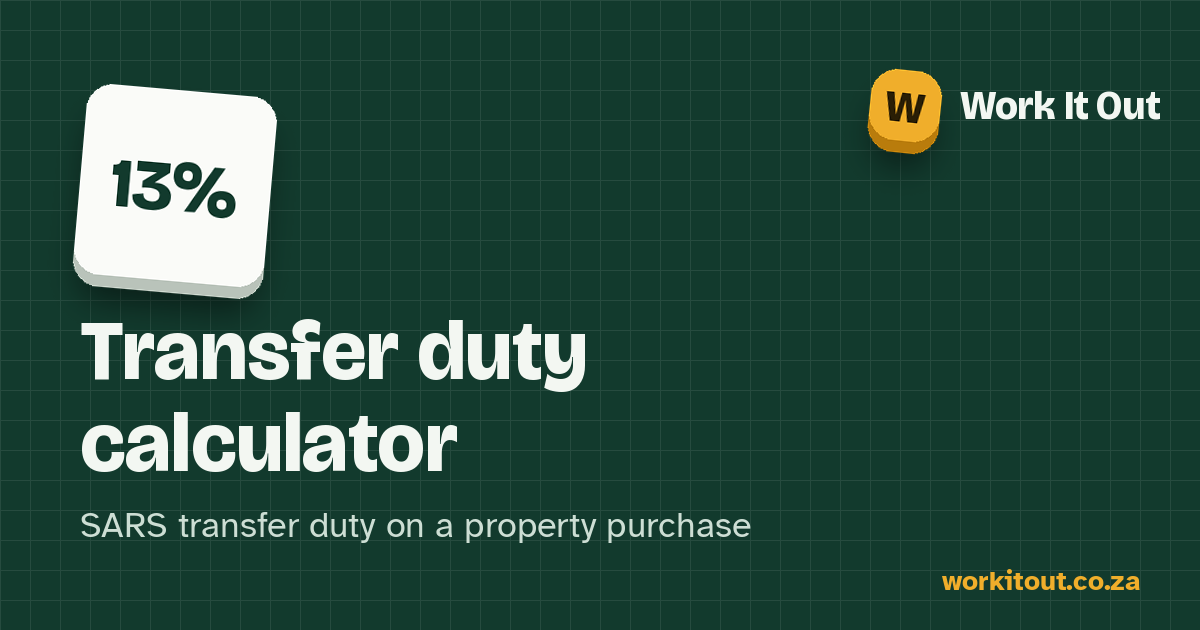
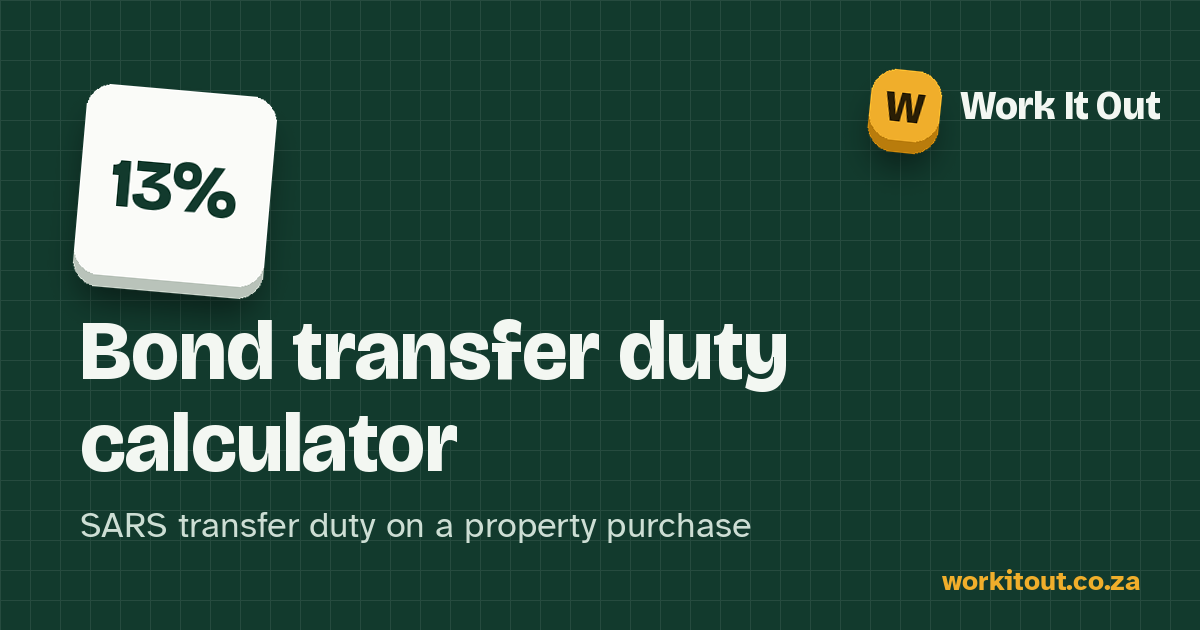
Remove APS calculator, rename to Bond Transfer Duty, add Compound Interest calculator
- New compound interest calculator with monthly top-ups, compounding frequency,
  yearly top-up raise, a year-by-year stacked bar chart and table
- /aps-calculator/ now redirects to the home page
- Share images regenerated

Claude-Session: https://claude.ai/code/session_014mjLHGrQ93ecfxfpPuppfF

Changed region(s): [[0.0617, 0.4825, 0.6783, 0.6333]]

diff --git a/src/components/Calculators.jsx b/src/components/Calculators.jsx
@@ -1,5 +1,5 @@
-import { salary, vat, aps, apsPoints, transferDuty, units, applianceCost, R, num, pct } from "../lib/calc.js";
-import { useRef } from "react";
+import { salary, vat, compound, transferDuty, units, applianceCost, R, num, pct } from "../lib/calc.js";
+import { useRef, useState } from "react";
 import { AnimatedNumber, useUrlState, ShareButton, Field, ResultPeek, MoneyInput, Chips, Checked } from "./shared.jsx";
 import { RATES } from "../lib/calc.js";
 
@@ -98,43 +98,124 @@ export function VatCalc() {
   );
 }
 
-export function ApsCalc() {
-  const [s, setS, set] = useUrlState({ m: ["", "", "", "", "", "", ""], lo: "" });
-  const r = aps(s.m, s.lo);
-  const setMark = (i) => (e) => setS((st) => { const m = [...st.m]; m[i] = e.target.value; return { ...st, m }; });
+export function CompoundCalc() {
+  const [s, setS, set] = useUrlState({ start: "10000", monthly: "1000", rate: "9", years: "20", freq: "12", esc: "0" });
+  const val = (key) => (v) => setS((st) => ({ ...st, [key]: v }));
+  const r = compound({ start: s.start, monthly: s.monthly, rate: s.rate, years: s.years, perYear: s.freq, escalate: s.esc });
   const res = useRef(null);
+  const share = r.balance > 0 ? r.interest / r.balance : 0;
   return (
-    <div className="tool">
-      <form className="card" onSubmit={(e) => e.preventDefault()}>
-        <p className="field-label">Your subject marks (%), excluding Life Orientation</p>
-        <div className="aps-grid">
-          {s.m.map((v, i) => (
-            <div className="aps-row" key={i}>
-              <input type="number" inputMode="numeric" min="0" max="100" placeholder={`Subject ${i + 1} mark %`}
-                aria-label={`Subject ${i + 1} percentage`} value={v} onChange={setMark(i)} />
-              <span className={"aps-pts" + (v !== "" ? " on" : "")}>{v === "" ? "" : `${apsPoints(v)} pts`}</span>
+    <>
+      <div className="tool">
+        <form className="card" onSubmit={(e) => e.preventDefault()}>
+          <Field id="c-start" label="Starting amount (R)">
+            <MoneyInput id="c-start" value={s.start} onValue={val("start")} />
+            <Chips values={[0, 10000, 50000, 100000]} current={s.start} onPick={val("start")} label={(v) => (v ? k(v) : "R0")} />
+          </Field>
+          <Field id="c-monthly" label="Monthly top-up (R)">
+            <MoneyInput id="c-monthly" value={s.monthly} onValue={val("monthly")} />
+            <Chips values={[500, 1000, 2500, 5000]} current={s.monthly} onPick={val("monthly")} label={k} />
+          </Field>
+          <Field id="c-rate" label="Interest or growth rate per year (%)" hint="Bank savings often pay 6–8%; long-term growth funds have averaged more, with ups and downs.">
+            <input id="c-rate" {...n} max="50" step="0.25" value={s.rate} onChange={set("rate")} />
+            <Chips values={[6, 8, 10, 12]} current={s.rate} onPick={val("rate")} label={(v) => v + "%"} />
+          </Field>
+          <Field id="c-years" label="How many years?">
+            <input id="c-years" type="number" inputMode="numeric" min="1" max="60" step="1" value={s.years} onChange={set("years")} />
+            <Chips values={[5, 10, 20, 30]} current={s.years} onPick={val("years")} label={(v) => v + " yrs"} />
+          </Field>
+          <div className="two">
+            <Field id="c-freq" label="Interest added">
+              <select id="c-freq" value={s.freq} onChange={set("freq")}>
+                <option value="12">Monthly</option><option value="4">Quarterly</option><option value="1">Yearly</option>
+              </select>
+            </Field>
+            <Field id="c-esc" label="Raise top-up each year (%)">
+              <input id="c-esc" {...n} max="30" step="1" value={s.esc} onChange={set("esc")} />
+            </Field>
+          </div>
+        </form>
+        <div className="result" aria-live="polite" ref={res}>
+          <div className="label">Value after {Math.round(+s.years || 0)} years</div>
+          <AnimatedNumber value={r.balance} format={R} />
+          <dl>
+            <dt>You paid in</dt><dd>{R(r.paid)}</dd>
+            <dt>Interest earned</dt><dd>{R(r.interest)}</dd>
+            <dt>Share that is interest</dt><dd>{pct(share)}</dd>
+          </dl>
+          <Checked>Interest is added {s.freq === "12" ? "monthly" : s.freq === "4" ? "quarterly" : "yearly"}; top-ups go in at the end of each month. Before tax and inflation.</Checked>
+          <ShareButton text={`Saving ${R(+s.monthly || 0)} a month at ${s.rate}% could grow to ${R(r.balance)} in ${s.years} years.`} />
+        </div>
+        <ResultPeek label="Final value" text={R(r.balance)} target={res} />
+      </div>
+      <GrowthChart rows={r.rows} />
+    </>
+  );
+}
+
+/** Rounds an axis maximum up to 1, 2 or 5 × a power of ten. */
+function niceMax(v) {
+  if (!(v > 0)) return { max: 1, step: 0.25 };
+  const raw = v / 4, p = Math.pow(10, Math.floor(Math.log10(raw)));
+  const step = [1, 2, 2.5, 5, 10].map((m) => m * p).find((x) => x >= raw);
+  return { max: Math.ceil(v / step) * step, step };
+}
+const short = (v) => (v >= 1e6 ? `R${+(v / 1e6).toFixed(1)}m` : v >= 1000 ? `R${Math.round(v / 1000)}k` : `R${Math.round(v)}`);
+
+/** Stacked bars, one per year: what you paid in vs interest earned. */
+function GrowthChart({ rows }) {
+  const [hover, setHover] = useState(null);
+  if (!rows.length) return null;
+  const last = rows[rows.length - 1];
+  const { max, step } = niceMax(last.balance);
+  const ticks = [];
+  for (let t = 0; t <= max + 1e-9; t += step) ticks.push(t);
+  const every = rows.length > 30 ? 10 : rows.length > 12 ? 5 : rows.length > 6 ? 2 : 1;
+  const h = hover == null ? null : rows[hover];
+  return (
+    <section className="card chart-card" aria-labelledby="growth-h">
+      <div className="chart-head">
+        <h2 id="growth-h">How it grows, year by year</h2>
+        <ul className="legend">
+          <li><i className="sw paid" />You paid in</li>
+          <li><i className="sw int" />Interest earned</li>
+        </ul>
+      </div>
+      <div className="chart" onMouseLeave={() => setHover(null)}>
+        <div className="grid" aria-hidden="true">
+          {ticks.slice().reverse().map((t) => <div key={t} style={{ bottom: `${(t / max) * 100}%` }}><span>{short(t)}</span></div>)}
+        </div>
+        <div className="bars" role="img" aria-label={`After ${last.year} years: ${R(last.balance)}, of which ${R(last.paid)} paid in and ${R(last.interest)} interest.`}>
+          {rows.map((row, i) => (
+            <div key={row.year} className={"col" + (hover === i ? " on" : "")} tabIndex={0}
+              onMouseEnter={() => setHover(i)} onFocus={() => setHover(i)} onBlur={() => setHover(null)}
+              aria-label={`Year ${row.year}: ${R(row.balance)}`}>
+              <div className="stack" style={{ height: `${(row.balance / max) * 100}%` }}>
+                <span className="seg int" style={{ flexGrow: Math.max(row.interest, 0) }} />
+                <span className="seg paid" style={{ flexGrow: row.paid }} />
+              </div>
+              <span className="x">{row.year % every === 0 || i === 0 ? row.year : ""}</span>
             </div>
           ))}
         </div>
-        <p className="hint">Enter up to 7 subjects. Your best 6 are counted.</p>
-        <Field id="a-lo" label="Life Orientation mark % (optional)">
-          <input id="a-lo" type="number" inputMode="numeric" min="0" max="100" value={s.lo} onChange={set("lo")} />
-        </Field>
-      </form>
-      <div className="result" aria-live="polite" ref={res}>
-        <div className="label">Your APS score</div>
-        <AnimatedNumber value={r.total} format={(x) => String(Math.round(x))} />
-        <div className="meter" aria-hidden="true"><span style={{ width: `${(r.total / 42) * 100}%` }} /></div>
-        <dl>
-          <dt>Subjects counted</dt><dd>{r.counted} of 6</dd>
-          <dt>APS including LO</dt><dd>{r.withLO === null ? "–" : r.withLO}</dd>
-          <dt>Maximum possible</dt><dd>42</dd>
-        </dl>
-        <Checked>Uses the NSC achievement levels (1–7), best six subjects</Checked>
-        <ShareButton text={`My APS score is ${r.total}.`} />
+        {h && (
+          <div className="tip" style={{ left: `${((hover + 0.5) / rows.length) * 100}%` }} role="status">
+            <strong>Year {h.year}</strong>
+            <span>{R(h.balance)}</span>
+            <span><i className="sw paid" />Paid in {R(h.paid)}</span>
+            <span><i className="sw int" />Interest {R(h.interest)}</span>
+          </div>
+        )}
       </div>
-      <ResultPeek label={"APS"} text={String(r.total)} target={res} />
-    </div>
+      <p className="axis-note">Years</p>
+      <details className="table-view">
+        <summary>Show the year-by-year table</summary>
+        <div className="table-scroll"><table>
+          <thead><tr><th>Year</th><th>Paid in</th><th>Interest</th><th>Value</th></tr></thead>
+          <tbody>{rows.map((row) => <tr key={row.year}><td>{row.year}</td><td>{R(row.paid)}</td><td>{R(row.interest)}</td><td>{R(row.balance)}</td></tr>)}</tbody>
+        </table></div>
+      </details>
+    </section>
   );
 }
 

diff --git a/src/styles/global.css b/src/styles/global.css
@@ -5,7 +5,7 @@
   --fynbos:#1d5a45;--fynbos-deep:#103326;--on-fynbos:#f3f7f2;
   --marigold:#f0ae2b;--marigold-deep:#b97c0c;--marigold-soft:#fbefd2;--on-marigold:#2a1e05;
   --panel:#123a2d;--on-panel:#f3f7f2;--panel-line:rgba(243,247,242,.16);
-  --grid:rgba(29,90,69,.075);--focus:#2563eb;
+  --grid:rgba(29,90,69,.075);--focus:#2563eb;--c-paid:#1f8457;--c-int:#c4840a;
   --display:"Bricolage Grotesque Variable","Bricolage Grotesque",ui-sans-serif,system-ui,-apple-system,"Segoe UI",sans-serif;
   --body:"Atkinson Hyperlegible",ui-sans-serif,system-ui,-apple-system,"Segoe UI",Roboto,Arial,sans-serif;
   --r-sm:8px;--r-md:14px;--r-lg:22px;
@@ -16,13 +16,13 @@
   --fynbos:#49b98a;--fynbos-deep:#1f6b4c;--on-fynbos:#06130d;
   --marigold:#f3bc4a;--marigold-deep:#9a6608;--marigold-soft:#2b2414;--on-marigold:#1e1503;
   --panel:#18291f;--on-panel:#e7eee9;--panel-line:rgba(231,238,233,.12);
-  --grid:rgba(73,185,138,.07);--focus:#7aa7ff;color-scheme:dark}}
+  --grid:rgba(73,185,138,.07);--focus:#7aa7ff;--c-paid:#3ea078;--c-int:#b88620;color-scheme:dark}}
 :root[data-theme=dark]{
   --paper:#0e1512;--surface:#16201b;--ink:#e7eee9;--muted:#9eaba4;--line:#26332d;--line-deep:#0a110e;
   --fynbos:#49b98a;--fynbos-deep:#1f6b4c;--on-fynbos:#06130d;
   --marigold:#f3bc4a;--marigold-deep:#9a6608;--marigold-soft:#2b2414;--on-marigold:#1e1503;
   --panel:#18291f;--on-panel:#e7eee9;--panel-line:rgba(231,238,233,.12);
-  --grid:rgba(73,185,138,.07);--focus:#7aa7ff;color-scheme:dark}
+  --grid:rgba(73,185,138,.07);--focus:#7aa7ff;--c-paid:#3ea078;--c-int:#b88620;color-scheme:dark}
 
 *{box-sizing:border-box}
 html{-webkit-text-size-adjust:100%;scroll-behavior:smooth}
@@ -311,3 +311,30 @@ header.site .wrap{justify-content:space-between}
 }
 
 .keypad li>div{box-shadow:none;border-style:dashed;opacity:.85}
+
+/* compound interest growth chart */
+.chart-card{margin-top:18px;display:block}
+.chart-head{display:flex;flex-wrap:wrap;align-items:baseline;justify-content:space-between;gap:8px 20px;margin-bottom:14px}
+.chart-head h2{margin:0;font-size:1.2rem}
+.legend{list-style:none;margin:0;padding:0;display:flex;gap:16px;font-size:.9rem;color:var(--muted)}
+.legend li{display:flex;align-items:center;gap:6px}
+.sw{display:inline-block;width:12px;height:12px;border-radius:3px;flex:none}
+.sw.paid{background:var(--c-paid)}.sw.int{background:var(--c-int)}
+.chart{position:relative;height:260px;margin-left:52px}
+.chart .grid{position:absolute;inset:0;pointer-events:none}
+.chart .grid div{position:absolute;left:0;right:0;border-top:1px solid var(--line)}
+.chart .grid span{position:absolute;right:calc(100% + 8px);top:-.6em;font-size:.75rem;color:var(--muted);white-space:nowrap}
+.chart .bars{position:absolute;inset:0;display:flex;align-items:flex-end;gap:2px}
+.chart .col{flex:1;height:100%;display:flex;flex-direction:column;justify-content:flex-end;align-items:stretch;position:relative;outline:none;min-width:0}
+.chart .col:focus-visible .stack{outline:2px solid var(--focus);outline-offset:2px}
+.chart .stack{display:flex;flex-direction:column;gap:2px;border-radius:4px 4px 0 0;overflow:hidden;transition:height .45s var(--ease-out),opacity .15s;min-height:1px}
+.chart .seg{display:block;min-height:0}
+.chart .seg.paid{background:var(--c-paid)}.chart .seg.int{background:var(--c-int)}
+.chart .bars:hover .col:not(.on) .stack{opacity:.55}
+.chart .x{position:absolute;top:calc(100% + 6px);left:50%;transform:translateX(-50%);font-size:.72rem;color:var(--muted)}
+.axis-note{margin:26px 0 0;text-align:center;font-size:.8rem;color:var(--muted)}
+.chart .tip{position:absolute;top:6px;transform:translateX(-50%);background:var(--surface);border:1px solid var(--line);border-radius:12px;padding:10px 12px;box-shadow:0 12px 24px -12px rgba(0,0,0,.35);display:grid;gap:3px;font-size:.85rem;white-space:nowrap;pointer-events:none;z-index:2}
+.chart .tip strong{font-family:var(--display)}
+.chart .tip span{display:flex;align-items:center;gap:6px}
+.table-view{margin-top:16px}
+@media(max-width:520px){.chart{height:210px;margin-left:44px}}

diff --git a/src/lib/calc.js b/src/lib/calc.js
@@ -55,24 +55,32 @@ export function vat(amount, mode) {
   return { excl: amount, vat: amount * RATES.vat, incl: amount * (1 + RATES.vat) };
 }
 
-export function apsPoints(pct) {
-  pct = +pct;
-  if (!(pct >= 0)) return 0;
-  if (pct >= 80) return 7;
-  if (pct >= 70) return 6;
-  if (pct >= 60) return 5;
-  if (pct >= 50) return 4;
-  if (pct >= 40) return 3;
-  if (pct >= 30) return 2;
-  return 1;
-}
-
-export function aps(marks, loMark) {
-  const pts = marks.filter((m) => m !== "" && m != null && !isNaN(+m)).map(apsPoints)
-    .sort((a, b) => b - a).slice(0, 6);
-  const total = pts.reduce((s, p) => s + p, 0);
-  const lo = loMark === "" || loMark == null || isNaN(+loMark) ? null : apsPoints(loMark);
-  return { total, counted: pts.length, withLO: lo === null ? null : total + lo };
+/**
+ * Compound growth with monthly top-ups.
+ * Interest is added at the end of each compounding period (12, 4 or 1 times a year) on the balance at that point;
+ * top-ups are paid at the end of each month and can rise by a fixed % every year.
+ * Returns the final figures plus one row per year for the chart and table.
+ */
+export function compound({ start = 0, monthly = 0, rate = 0, years = 10, perYear = 12, escalate = 0 }) {
+  start = Math.max(0, +start || 0);
+  monthly = Math.max(0, +monthly || 0);
+  const r = Math.max(0, +rate || 0) / 100;
+  const n = Math.min(100, Math.max(0, Math.round(+years || 0)));
+  const p = [1, 4, 12].includes(+perYear) ? +perYear : 12;
+  const esc = Math.max(0, +escalate || 0) / 100;
+  const monthsPerPeriod = 12 / p;
+  let balance = start, paid = start, topUp = monthly;
+  const rows = [];
+  for (let y = 1; y <= n; y++) {
+    for (let m = 1; m <= 12; m++) {
+      if (m % monthsPerPeriod === 0) balance *= 1 + r / p;
+      balance += topUp;
+      paid += topUp;
+    }
+    rows.push({ year: y, balance, paid, interest: balance - paid });
+    topUp *= 1 + esc;
+  }
+  return { balance, paid, interest: balance - paid, rows };
 }
 
 export function transferDuty(price) {

diff --git a/src/lib/site.js b/src/lib/site.js
@@ -14,12 +14,12 @@ export const TOOLS = [
     desc: "Take-home pay after PAYE, UIF and medical aid credits.", keywords: "paye tax income take home net pay payslip uif" },
   { slug: "vat-calculator", nav: "VAT", title: "VAT Calculator (15%)", glyph: "15%", alt: true,
     desc: "Add or remove 15% South African VAT in one tap.", keywords: "vat 15 percent add remove inclusive exclusive invoice" },
-  { slug: "aps-calculator", nav: "APS", title: "APS Score Calculator", glyph: "42", alt: false,
-    desc: "Work out your matric Admission Point Score for university.", keywords: "aps matric university admission points nsc" },
+  { slug: "compound-interest-calculator", nav: "Compound interest", title: "Compound Interest Calculator", glyph: "%↑", alt: false,
+    desc: "See how savings and monthly top-ups grow over time.", keywords: "compound interest savings investment growth tfsa retirement monthly contribution" },
   { slug: "electricity-calculator", nav: "Electricity", title: "Prepaid Electricity Calculator", glyph: "kWh", alt: true,
     desc: "Units per rand, plus what each appliance costs to run.", keywords: "electricity prepaid units eskom kwh geyser appliance" },
-  { slug: "transfer-duty-calculator", nav: "Transfer duty", title: "Transfer Duty Calculator", glyph: "13%", alt: false,
-    desc: "SARS transfer duty on a property purchase.", keywords: "transfer duty property house buy bond sars conveyancing" },
+  { slug: "transfer-duty-calculator", nav: "Bond transfer duty", title: "Bond Transfer Duty Calculator", glyph: "13%", alt: false,
+    desc: "SARS transfer duty when you buy a property.", keywords: "bond transfer duty property house buy sars conveyancing costs" },
   { slug: "word-hints", nav: "Word hints", title: "Daily Word Game Hints", glyph: "A?", alt: true,
     desc: "Spoiler-free Wordle and Wortel hints, updated daily.", keywords: "wordle wortel hint answer today word game puzzle" },
 ];

diff --git a/scripts/make-og.py b/scripts/make-og.py
@@ -21,9 +21,9 @@ PAGES = [
     ("home", "WORK IT OUT", "South African calculators and daily word hints", None),
     ("salary-calculator", "Salary after tax calculator", "Take-home pay after PAYE, UIF and medical aid credits", ("R", False)),
     ("vat-calculator", "VAT calculator (15%)", "Add or remove South African VAT in one tap", ("15%", True)),
-    ("aps-calculator", "APS score calculator", "Your matric Admission Point Score for university", ("42", False)),
+    ("compound-interest-calculator", "Compound interest calculator", "See how savings and monthly top-ups grow over time", ("%↑", False)),
     ("electricity-calculator", "Prepaid electricity calculator", "Units per rand and what each appliance costs to run", ("kWh", True)),
-    ("transfer-duty-calculator", "Transfer duty calculator", "SARS transfer duty on a property purchase", ("13%", False)),
+    ("transfer-duty-calculator", "Bond transfer duty calculator", "SARS transfer duty on a property purchase", ("13%", False)),
     ("word-hints", "Daily word game hints", "Spoiler-free Wordle and Wortel clues, every day", ("A?", True)),
     ("wordle", "Wordle hint today", "Gentle clues first, the answer only if you want it", ("W?", False)),
     ("wortel", "Wortel-wenk vandag", "Sagte leidrade eers, die antwoord net as jy wil", ("W?", True)),

diff --git a/README.md b/README.md
@@ -1,6 +1,6 @@
 # Work It Out
 
-Free South African calculators (salary after tax, VAT, APS, prepaid electricity, transfer duty) plus daily Wordle and Wortel hints.
+Free South African calculators (salary after tax, VAT, compound interest, prepaid electricity, bond transfer duty) plus daily Wordle and Wortel hints.
 
 Built with **Astro + React**. Every page is pre-built as plain HTML, so Google sees the full content; React then runs the calculators, the 3D tile board and quick search in the browser.
 
